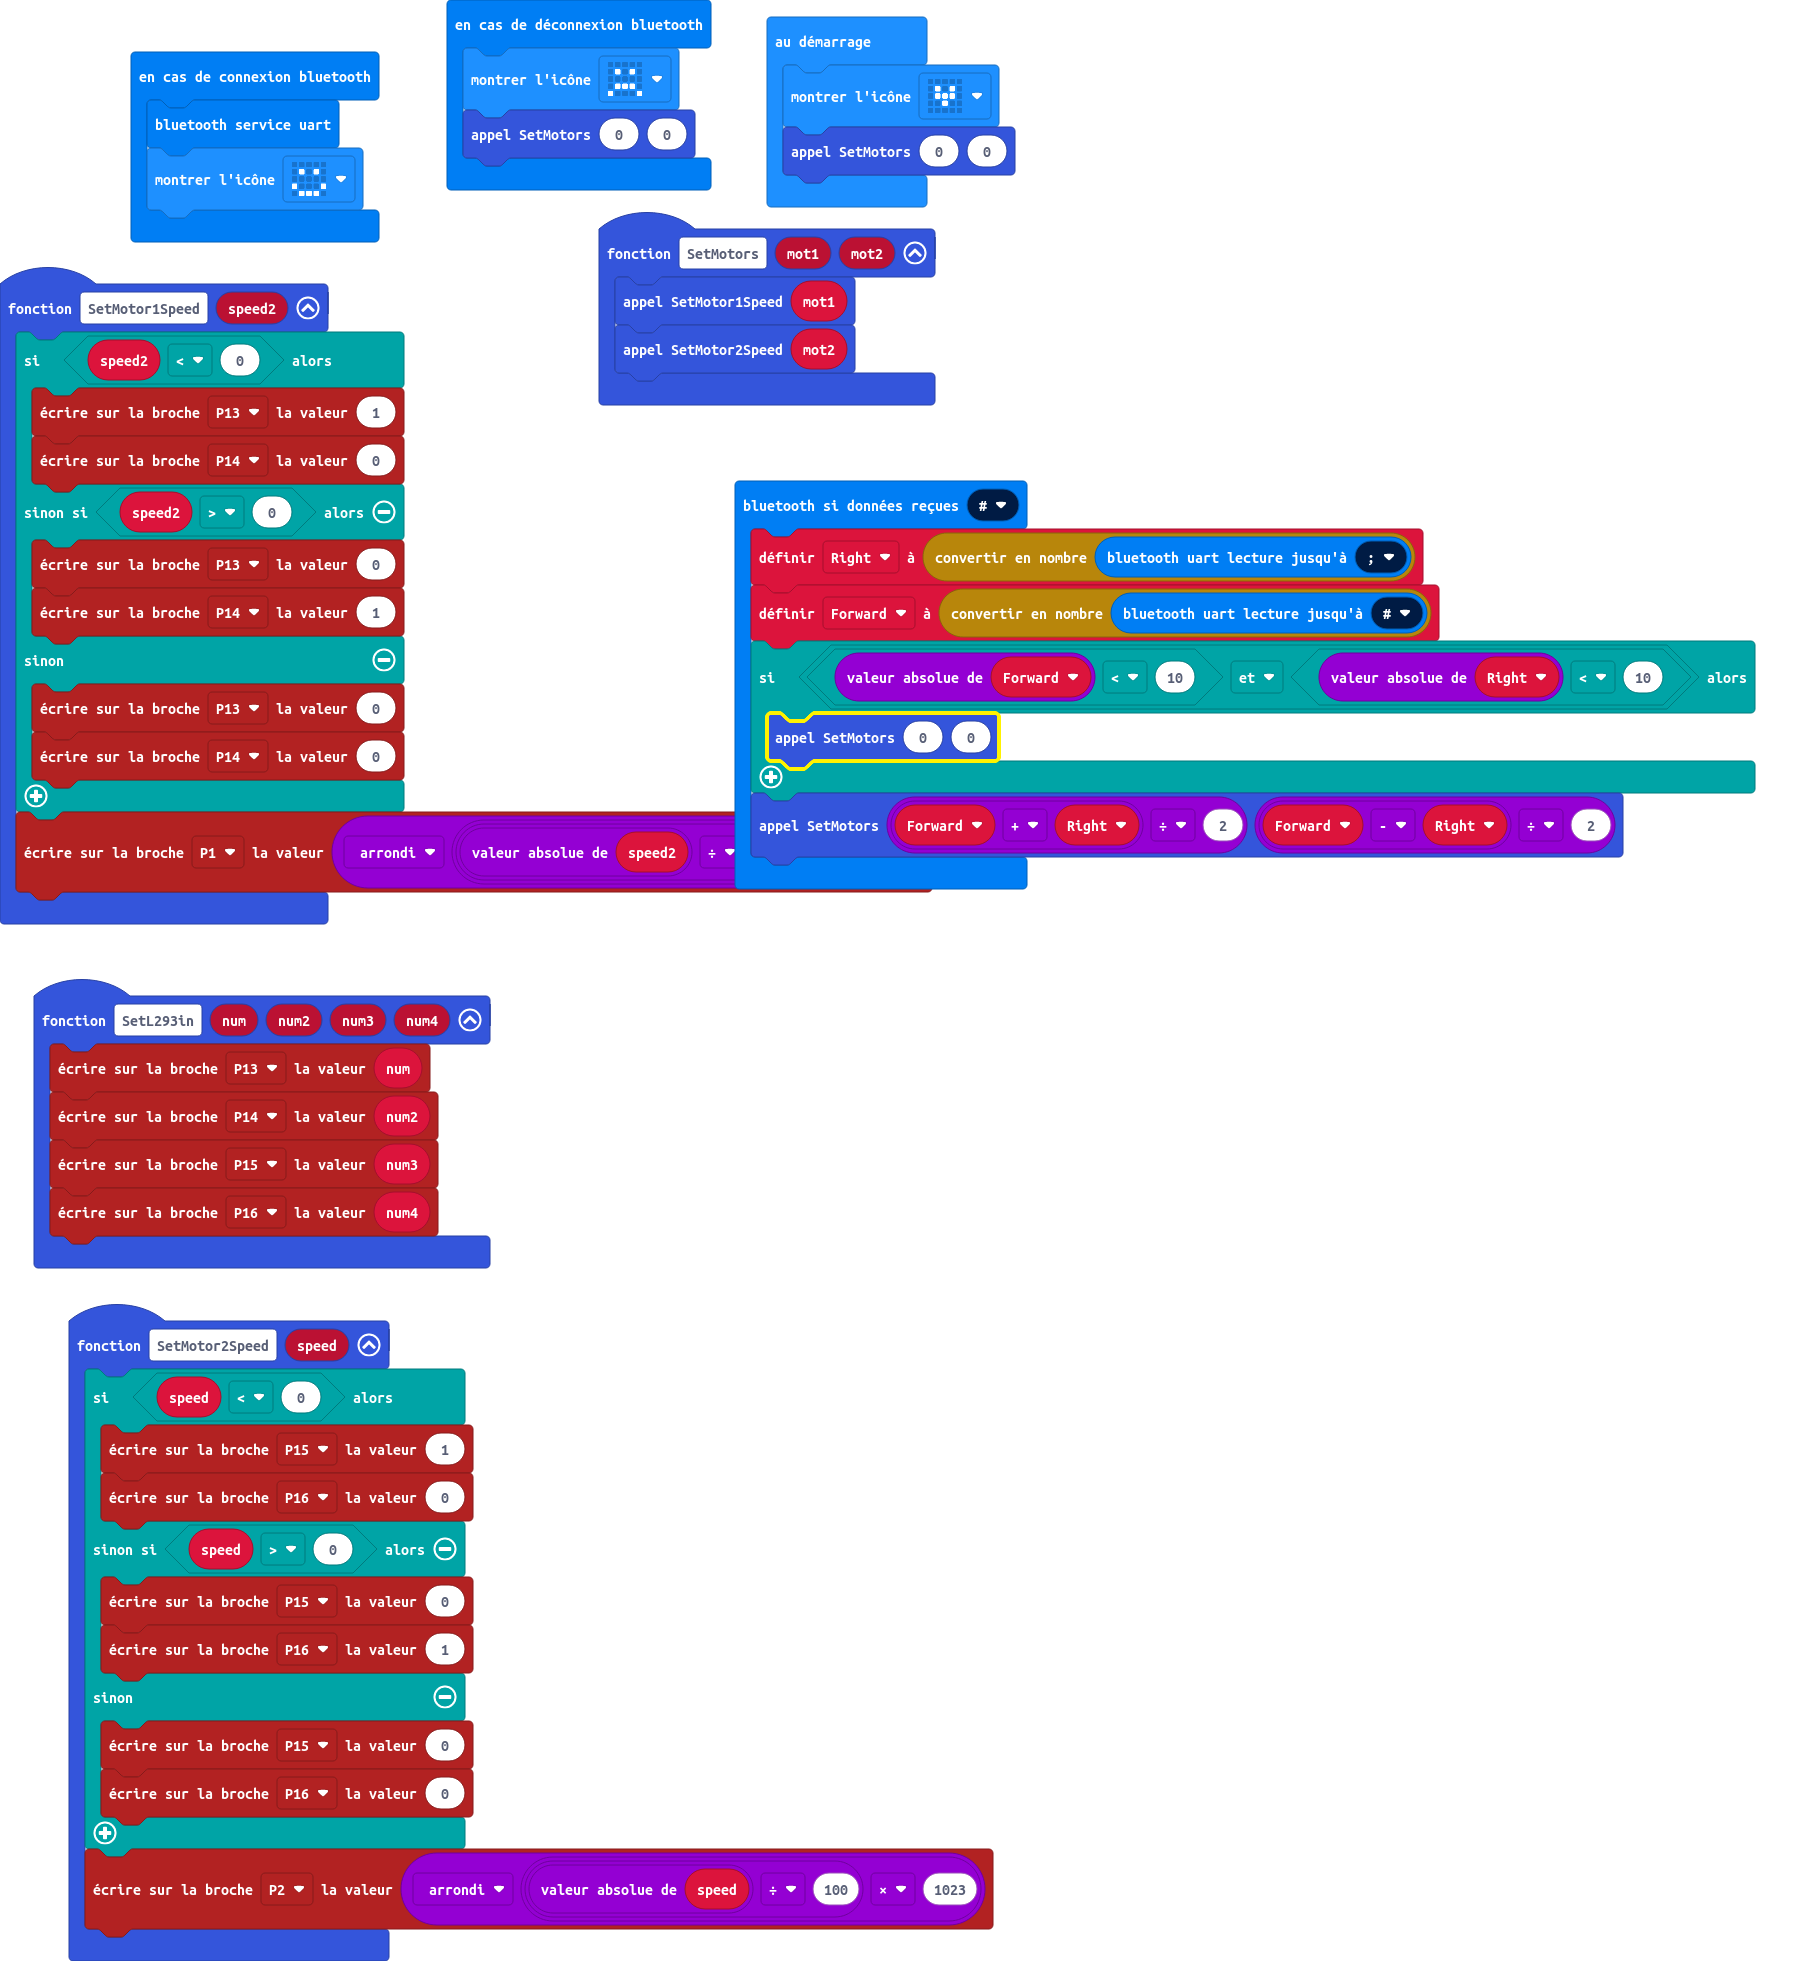
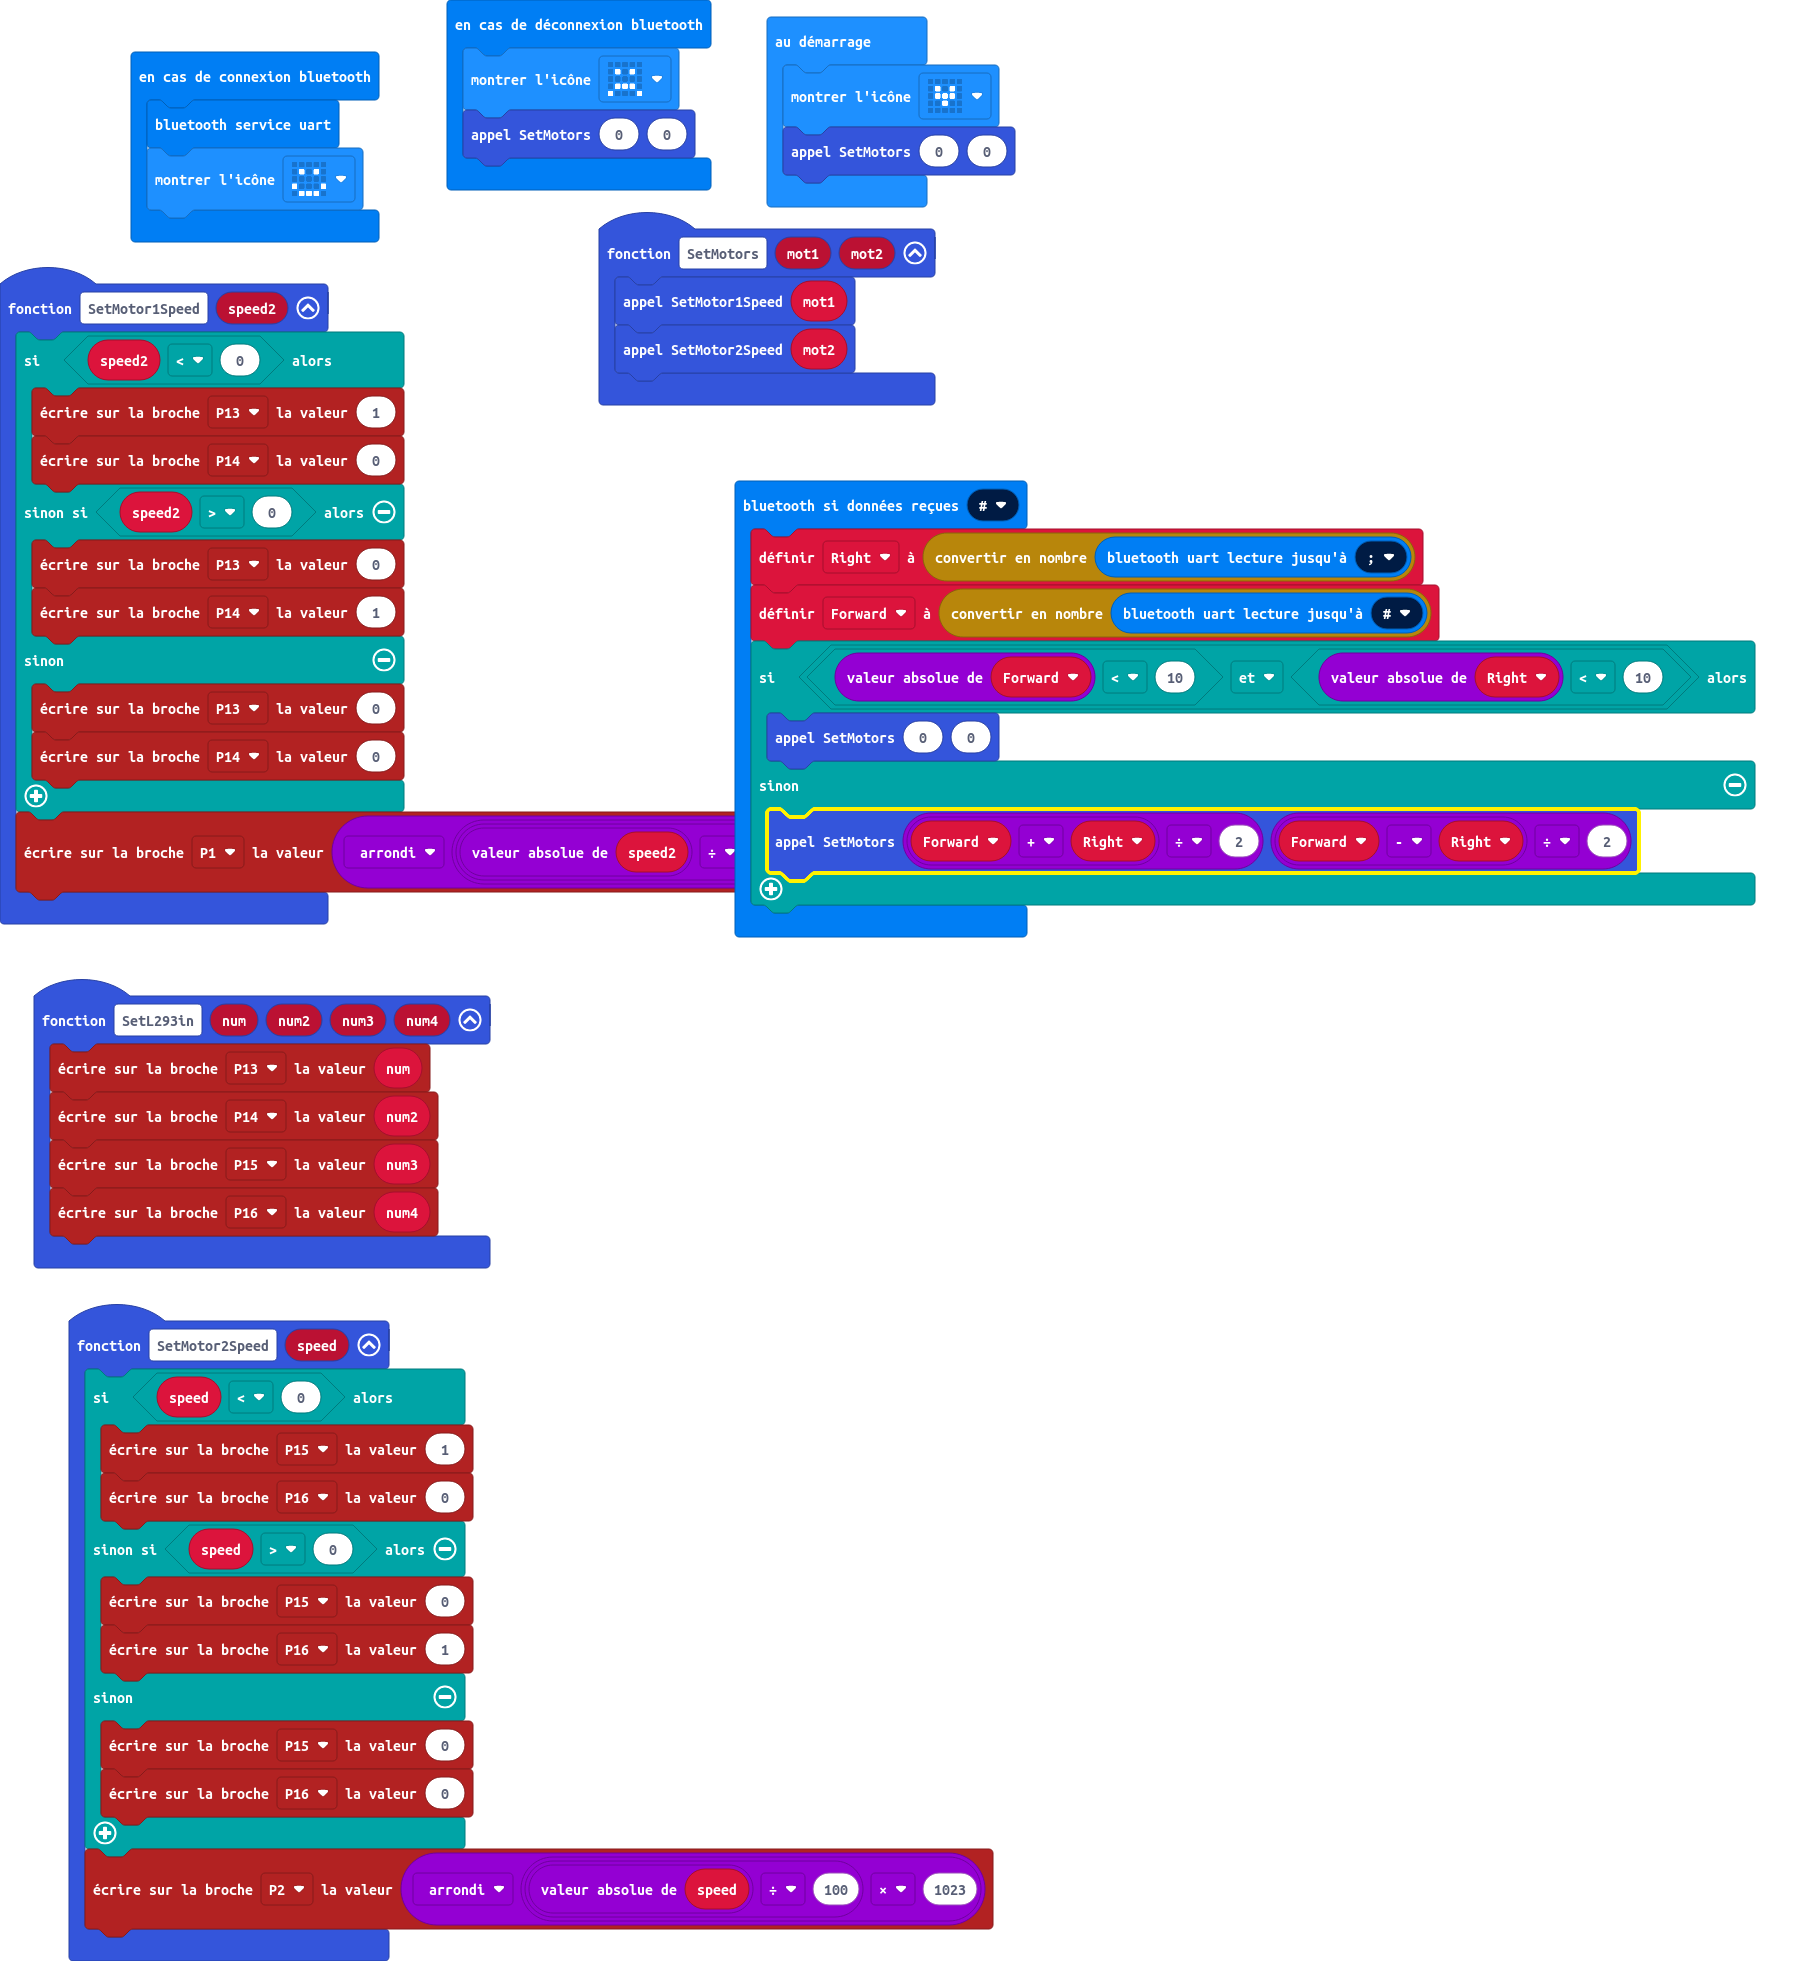
Mise à jour main.blocks, main.ts

Changed region(s): [[0.4029, 0.3733, 0.9917, 0.4977]]

diff --git a/main.ts b/main.ts
@@ -47,8 +47,9 @@ bluetooth.onUartDataReceived(serial.delimiters(Delimiters.Hash), function () {
     Forward = parseFloat(bluetooth.uartReadUntil(serial.delimiters(Delimiters.Hash)))
     if (Math.abs(Forward) < 10 && Math.abs(Right) < 10) {
         SetMotors(0, 0)
+    } else {
+        SetMotors((Forward + Right) / 2, (Forward - Right) / 2)
     }
-    SetMotors((Forward + Right) / 2, (Forward - Right) / 2)
 })
 let Forward = 0
 let Right = 0
